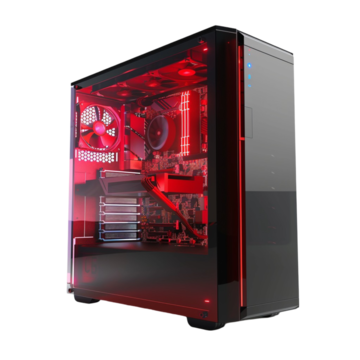
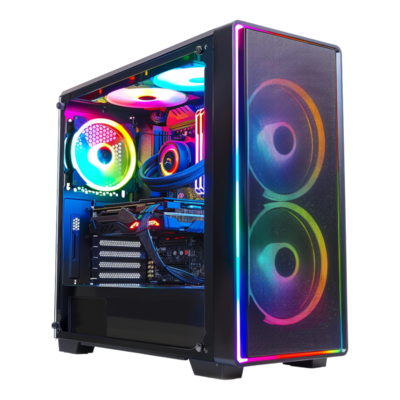
data, image

diff --git a/source/BE/ecommerceproject/ecommerceproject/src/main/java/com/example/ecommerceproject/config/DataLoader.java b/source/BE/ecommerceproject/ecommerceproject/src/main/java/com/example/ecommerceproject/config/DataLoader.java
@@ -102,7 +102,8 @@ public class DataLoader implements CommandLineRunner {
         List<String> brandNames = Arrays.asList(
             "ASUS", "MSI", "Gigabyte", "Intel", "AMD", "NVIDIA", 
             "Corsair", "Kingston", "Western Digital", "Seagate", 
-            "Samsung", "G.Skill", "EVGA", "Cooler Master", "Thermaltake"
+            "Samsung", "G.Skill", "EVGA", "Cooler Master", "Thermaltake",
+            "Khác"
         );
         
         List<Brand> brands = new ArrayList<>();
@@ -118,7 +119,7 @@ public class DataLoader implements CommandLineRunner {
 
     private List<ProductType> createProductTypes() {
         List<String> typeNames = Arrays.asList(
-            "CPU", "GPU", "Mainboard", "RAM", "SSD", "HDD", 
+             "PC", "CPU", "GPU", "Mainboard", "RAM", "SSD", "HDD", 
             "PSU", "Case", "Cooling", "Monitor", "Peripherals"
         );
         
@@ -166,6 +167,7 @@ public class DataLoader implements CommandLineRunner {
         ProductType hddType = productTypeRepository.findByName("HDD");
         ProductType psuType = productTypeRepository.findByName("PSU");
         ProductType caseType = productTypeRepository.findByName("Case");
+        ProductType pcType = productTypeRepository.findByName("PC");
         
         // Lấy các Brand theo tên để dễ sử dụng
         Brand intel = brandRepository.findByName("Intel");
@@ -412,6 +414,35 @@ public class DataLoader implements CommandLineRunner {
                 42, 15.0, asus, caseType)
         );
         
+        // Danh sách sản phẩm PC (máy tính đã build sẵn)
+        Brand khacBrand = brandRepository.findByName("Khác");
+        
+        List<Product> pcProducts = Arrays.asList(
+            createProduct("PC Gaming Enthusiast Intel Edition", 55990000, 10, 
+                "Máy tính chơi game hiệu năng cao với CPU Intel Core i9, RTX 4080, tản nhiệt nước, đèn RGB",
+                32, 8.0, khacBrand, pcType),
+                
+            createProduct("PC Gaming Pro AMD Edition", 42990000, 15, 
+                "Máy tính chơi game chuyên nghiệp với CPU Ryzen 9, RTX 4070, 32GB RAM DDR5",
+                48, 5.0, khacBrand, pcType),
+                
+            createProduct("PC Workstation Creator", 68990000, 5, 
+                "Máy trạm làm việc dành cho các nhà sáng tạo nội dung, đồ họa 3D, với RTX 4090 và 64GB RAM",
+                12, 3.0, khacBrand, pcType),
+                
+            createProduct("PC Gaming Mid-range Intel", 32990000, 25, 
+                "Máy tính chơi game tầm trung với CPU Intel Core i5, RTX 4060, 16GB RAM DDR5",
+                65, 10.0, khacBrand, pcType),
+                
+            createProduct("PC Gaming Mid-range AMD", 30990000, 30, 
+                "Máy tính chơi game tầm trung với CPU Ryzen 5, RTX 4060, 16GB RAM DDR5",
+                72, 12.0, khacBrand, pcType),
+                
+            createProduct("PC Office Business", 18990000, 40, 
+                "Máy tính văn phòng dành cho doanh nghiệp, CPU Intel Core i5, 16GB RAM, SSD 512GB",
+                95, 5.0, khacBrand, pcType)
+        );
+        
         // Gộp tất cả các sản phẩm lại và lưu vào database
         List<Product> allProducts = new ArrayList<>();
         allProducts.addAll(cpuProducts);
@@ -422,6 +453,7 @@ public class DataLoader implements CommandLineRunner {
         allProducts.addAll(hddProducts);
         allProducts.addAll(psuProducts);
         allProducts.addAll(caseProducts);
+        allProducts.addAll(pcProducts);
         
         productRepository.saveAll(allProducts);
         
@@ -468,8 +500,57 @@ public class DataLoader implements CommandLineRunner {
         product.setPrice(price);
         product.setQuantity(quantity);
         product.setDescription(description);
-        product.setPrimaryImageUrl("razormouse1.png");
-        product.setImageUrls(List.of("razormouse2.png", "razormouse3.png", "razormouse4.png", "razormouse5.png"));
+        
+        // Thiết lập hình ảnh theo loại sản phẩm
+        String typeName = productType.getName().toLowerCase();
+        String primaryImage = typeName + "1.png";
+        List<String> imageUrls = new ArrayList<>();
+        
+        switch (typeName) {
+            case "cpu":
+                primaryImage = "cpu1.png";
+                imageUrls = List.of("cpu2.png", "cpu3.png", "cpu4.png");
+                break;
+            case "gpu":
+                primaryImage = "gpu1.png";
+                imageUrls = List.of("gpu2.png", "gpu3.png", "gpu4.png");
+                break;
+            case "mainboard":
+                primaryImage = "mainboard1.png";
+                imageUrls = List.of("mainboard2.png", "mainboard3.png", "mainboard4.png");
+                break;
+            case "ram":
+                primaryImage = "ram1.png";
+                imageUrls = List.of("ram2.png", "ram3.png", "ram4.png");
+                break;
+            case "ssd":
+                primaryImage = "ssd1.png";
+                imageUrls = List.of("ssd2.png", "ssd3.png", "ssd4.png");
+                break;
+            case "hdd":
+                primaryImage = "hdd1.png";
+                imageUrls = List.of("hdd2.png", "hdd3.png", "hdd4.png");
+                break;
+            case "psu":
+                primaryImage = "psu1.png";
+                imageUrls = List.of("psu2.png", "psu3.png", "psu4.png");
+                break;
+            case "case":
+                primaryImage = "case1.png";
+                imageUrls = List.of("case2.png", "case3.png", "case4.png");
+                break;
+            case "pc":
+                primaryImage = "pc1.png";
+                imageUrls = List.of("pc2.png", "pc3.png", "pc4.png");
+                break;
+            default:
+                primaryImage = "razormouse1.png";
+                imageUrls = List.of("razormouse2.png", "razormouse3.png", "razormouse4.png");
+                break;
+        }
+        
+        product.setPrimaryImageUrl(primaryImage);
+        product.setImageUrls(imageUrls);
         product.setSoldCount(soldCount);
         product.setDiscountPercent(discountPercent);
         product.setBrand(brand);
@@ -499,6 +580,22 @@ public class DataLoader implements CommandLineRunner {
             specifications.put("Kiến trúc", brand.getName().equals("Intel") ? "Raptor Lake" : "Zen 4");
             specifications.put("Quy trình sản xuất", brand.getName().equals("Intel") ? "10nm" : "5nm");
             specifications.put("Card đồ họa tích hợp", brand.getName().equals("Intel") ? "UHD Graphics 770" : "Radeon Graphics");
+        }
+        
+        // PC specifications (prebuilt PC)
+        else if (productType.getName().equals("PC")) {
+            // Thông số cơ bản cho một máy tính đã build sẵn
+            specifications.put("CPU", name.contains("Intel") ? "Intel Core i7-14700K" : "AMD Ryzen 7 7800X3D");
+            specifications.put("Mainboard", name.contains("Intel") ? "ASUS ROG STRIX Z790-F GAMING WIFI" : "MSI MAG B650 TOMAHAWK WIFI");
+            specifications.put("RAM", "32GB DDR5 5600MHz");
+            specifications.put("GPU", name.contains("Gaming") ? "NVIDIA GeForce RTX 4070 12GB" : "NVIDIA GeForce RTX 4060 Ti 8GB");
+            specifications.put("SSD", "1TB NVMe M.2 PCIe Gen 4");
+            specifications.put("HDD", "2TB 7200RPM SATA");
+            specifications.put("PSU", "750W 80 Plus Gold");
+            specifications.put("Case", "Tempered Glass Mid Tower");
+            specifications.put("Cooling", "AIO Liquid Cooling 240mm");
+            specifications.put("OS", "Windows 11 Home");
+            specifications.put("Kích thước", "420 x 210 x 480 mm");
         }
         
         // GPU specifications

diff --git a/source/BE/ecommerceproject/ecommerceproject/src/main/java/com/example/ecommerceproject/service/ProductService.java b/source/BE/ecommerceproject/ecommerceproject/src/main/java/com/example/ecommerceproject/service/ProductService.java
@@ -99,8 +99,14 @@ public class ProductService {
             return null;
         }
 
-        product.setId(id);
-        return productRepository.save(product);
+        Product existingProduct = productRepository.findById(id).orElse(null);
+        if (existingProduct != null) {
+            product.setId(id);
+            product.setCreatedAt(existingProduct.getCreatedAt());
+            return productRepository.save(product);
+        }
+
+        return null;
     }
 
     public boolean deleteProduct(String id) {
